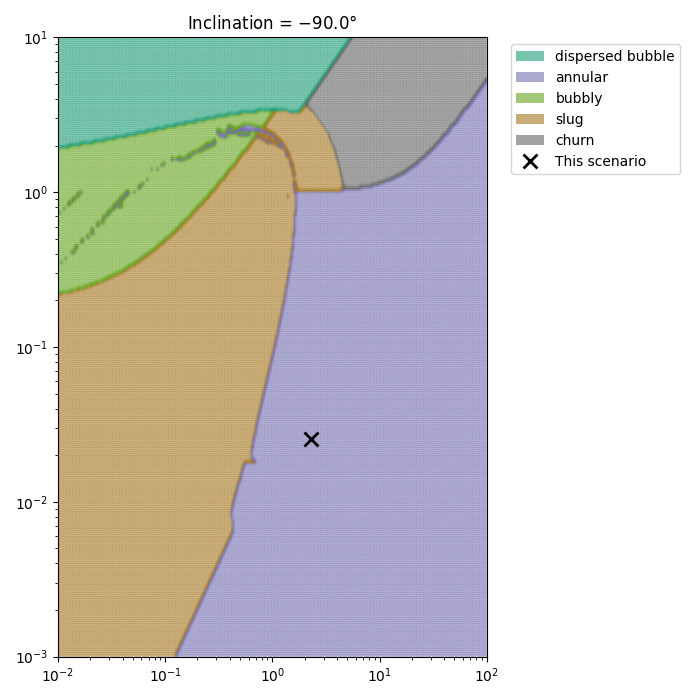
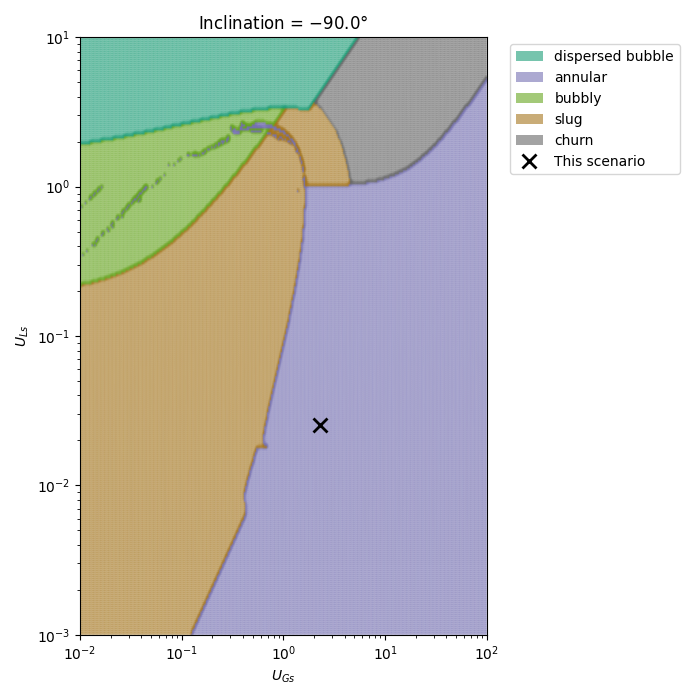
add ugs and uls labels to plots

diff --git a/src/visualization.py b/src/visualization.py
@@ -71,11 +71,13 @@ def plot_map(category_map, liquid, gas, pipe, u_gs_map, u_ls_map):
     # plot the legend
     axs.legend(handles=legend_elements, bbox_to_anchor=(1.04, 1), loc="upper left")
 
-    # set the ticks, title and scale
+    # set the ticks, label, title and scale
     axs.set_xticks(x_ticks)
     axs.set_yticks(y_ticks)
     axs.set_xscale("log")
     axs.set_yscale("log")
+    axs.set_xlabel(r"$U_{Gs}$")
+    axs.set_ylabel(r"$U_{Ls}$")
     axs.set_title(f"Inclination = ${pipe.inclination*180/np.pi:.1f}{{\degree}}$")
     plt.tight_layout()
 
